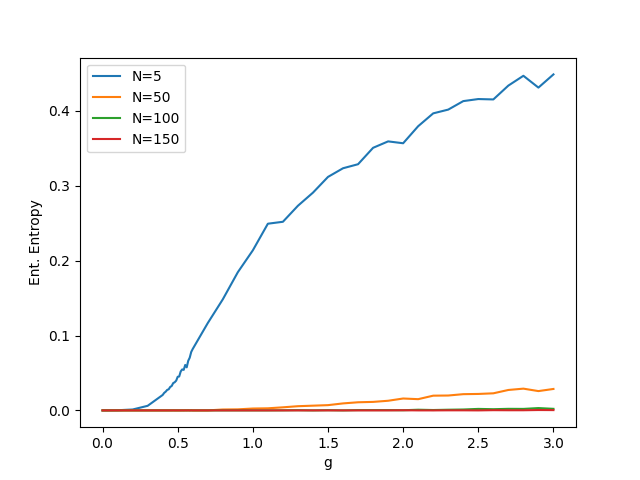
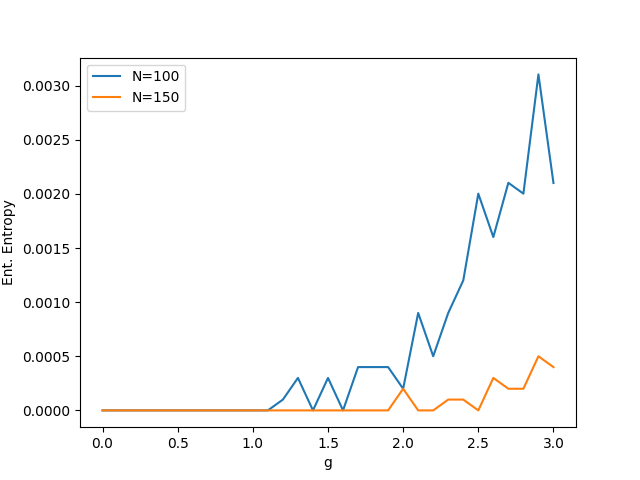
sync

diff --git a/plot_entropy.py b/plot_entropy.py
@@ -14,7 +14,7 @@ red = (195/255, 58/255, 50/255)
 green = (0/255, 158/255, 115/255)
 orange = (230/255, 159/255, 0/255)
 
-Nlist = [5,50,100,150]
+Nlist = [100,150]
 nN = len(Nlist)
 glist = np.round(np.append(np.linspace(0,0.4,5), np.append(np.linspace(0.41,0.59,19),np.linspace(0.6,3,25))), decimals=3)
 Ng = len(glist)